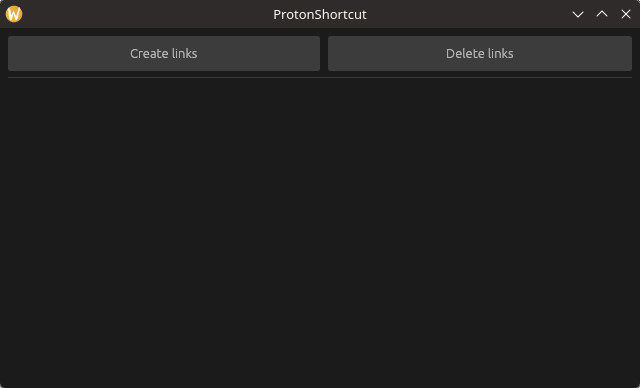
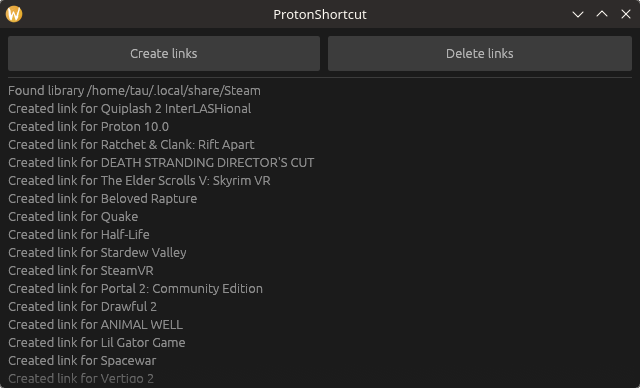
Remove extra header and update screenshot with content

Changed region(s): [[0.0, 0.2165, 0.5, 0.9897]]

diff --git a/README.md b/README.md
@@ -31,6 +31,3 @@ What this application does is make a symbolic link (kinda like a shortcut) in th
 
 You only have to run this app when you want to create new links or delete them.
 So you have to run it once to create links for all you installed apps and any time to create links for new ones
-
-## Screenshots
-
